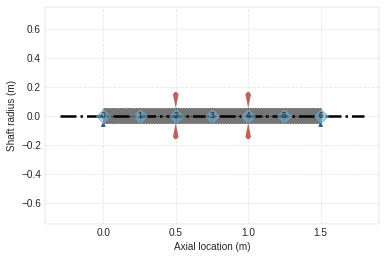
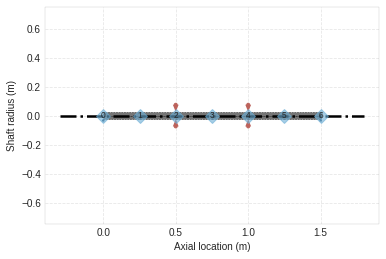
Update tutorial files
This changes the tutorial headers. Before the rst headers were being used
inside the notebook, but the final file would create several links for each
header in the documentation main page. The headers were changed to the markdown
standard (#, ##, ###) to avoid this problem.

Changed region(s): [[0.2487, 0.3398, 0.8394, 0.556]]

diff --git a/docs/examples/Tutorial.rst b/docs/examples/Tutorial.rst
@@ -11,7 +11,7 @@ ROSS Quick Start
   classes for a quick start to use ROSS.
 
 Materials
-=========
+---------
 
 There is a class called Material to hold material’s properties.
 
@@ -46,7 +46,7 @@ There is a class called Material to hold material’s properties.
   of the following parameters: ‘E’, ‘G_s’ ,‘rho’.
 
 Saving a Material
------------------
+~~~~~~~~~~~~~~~~~
 
 To save an already instantiated Material object, you need to use the
 following method.
@@ -56,7 +56,7 @@ following method.
     Steel.save_material()
 
 Loading a Material
-------------------
+~~~~~~~~~~~~~~~~~~
 
 To load a material, first of all, use the available_materials() method
 to check if your material is instantiated, then you should use the
@@ -72,7 +72,7 @@ parameter.
 
 .. parsed-literal::
 
-    ['Steel']
+    ['AISI4140', 'Steel']
 
 
 
@@ -81,7 +81,7 @@ parameter.
     steel = rs.Material.use_material('Steel')
 
 Element
-=======
+-------
 
 | Element is an abstract class(not directly used in the program), this
   class is mainly used to organize the code and make it more intuitive.
@@ -90,7 +90,7 @@ Element
   the junction of two elements.
 
 ShaftElement
-============
+------------
 
 | There are two methods that you could use to model this element:
 | \* Euler–Bernoulli beam Theory \* Timoshenko beam Theory (used as
@@ -121,7 +121,7 @@ ShaftElement
                                       ) for l in l_list]
 
 DiskElement
-===========
+-----------
 
 | As the name says this class represents a Disk.
 | We can see an example of instantiation of this class in the following
@@ -141,11 +141,11 @@ All the values are following the S.I. convention.
 
 .. parsed-literal::
 
-    <ross.disk_element.DiskElement object at 0x7f1402f98e48>
+    DiskElement(Id=0.17809, Ip=0.32956, m=32.59, color='#bc625b', n=0)
 
 
 From geometry DiskElement instatiation
-======================================
+~~~~~~~~~~~~~~~~~~~~~~~~~~~~~~~~~~~~~~
 
 | Besides the instatiation previously explained, there is a way to
   instantiate a DiskElement with only geometrical parameters (for
@@ -173,8 +173,8 @@ From geometry DiskElement instatiation
                                       )
     disks = [disk0,disk1]
 
-# BearingElement
-----------------
+BearingElement
+--------------
 
 | As it says on the name, this class is a bearing.
 | The following code demonstrate how to properly instantiate it. - ‘n’
@@ -201,7 +201,7 @@ give cross-coupled coefficients.
     bearings = [bearing0, bearing1]
 
 Instantiating bearings from excel archives
-------------------------------------------
+~~~~~~~~~~~~~~~~~~~~~~~~~~~~~~~~~~~~~~~~~~
 
 There’s a class method to instantiate a bearing from excel tables, as we
 can see in the following code.
@@ -209,8 +209,8 @@ can see in the following code.
 **There will be a class method to instantiate a bearing from excel
 tables. - work in progress**
 
-# Rotor
--------
+Rotor
+-----
 
 This class unifies all the Element classes in the program and assembles
 the mass, damping and stiffness matrices of each element, building up
@@ -235,7 +235,7 @@ elements in a list format, as it follows.
 
 
 From section instantiation of a Rotor
--------------------------------------
+~~~~~~~~~~~~~~~~~~~~~~~~~~~~~~~~~~~~~
 
 | In this form of instantiation, the number of shaft elements used in
   FEM are not fixed, instead, the program does a convergence analysis,
@@ -287,33 +287,10 @@ From section instantiation of a Rotor
 
     To check the rotor geometry, use the method plot_rotor()
     To calculate the rotor state, use the method run()
-    To check the rotor geometry, use the method plot_rotor()
-    To calculate the rotor state, use the method run()
-
-
-
-.. raw:: html
-
-    
-    
-    
-    
-    
-    
-      <div class="bk-root" id="e93417d1-c9de-46e8-bb2e-a7a77d855c64" data-root-id="1117"></div>
-
-
-
-
-
-.. parsed-literal::
-
-    To check the rotor geometry, use the method plot_rotor()
-    To calculate the rotor state, use the method run()
 
 
 Visualizing the Rotor
----------------------
+~~~~~~~~~~~~~~~~~~~~~
 
 It is interesting to plot the rotor to check if it’s really what you
 wanted to instantiate, you can plot it with the following code.
@@ -335,7 +312,7 @@ you can either turn on or off the matplotlib one.
     
     
     
-      <div class="bk-root" id="3a951c87-f7d3-4ccf-97a2-83a8428e52b8" data-root-id="1320"></div>
+      <div class="bk-root" id="b83f1bbc-3fc3-470b-95a4-47765a656831" data-root-id="1003"></div>
 
 
 
@@ -345,8 +322,8 @@ you can either turn on or off the matplotlib one.
 
 .. parsed-literal::
 
-    (Figure(id='1320', ...),
-     <matplotlib.axes._subplots.AxesSubplot at 0x7f1402facb38>)
+    (Figure(id='1003', ...),
+     <matplotlib.axes._subplots.AxesSubplot at 0x7f9c1c792358>)
 
 
 
@@ -355,7 +332,7 @@ you can either turn on or off the matplotlib one.
 
 
 Running the simulation
-----------------------
+~~~~~~~~~~~~~~~~~~~~~~
 
 After you verify that everything is fine with the rotor, you should run
 the simulation and obtain results. To do that you only need to use the
@@ -373,8 +350,8 @@ These are the following analysis you can do with the program: - Static
 analysis - Campbell Diagram - Frequency response - Forced response -
 Mode Shapes
 
-## Static analysis
-------------------
+Static analysis
+~~~~~~~~~~~~~~~
 
 This method gives a free body diagram and a exagerated plot of the rotor
 response to gravity effects.
@@ -394,14 +371,14 @@ response to gravity effects.
     
     
     
-      <div class="bk-root" id="700428f7-42dc-47d8-b608-d1f69767a94c" data-root-id="2835"></div>
+      <div class="bk-root" id="561b1624-8381-47ca-a90f-a0194ded9af6" data-root-id="2618"></div>
 
 
 
 
 
 Campbell Diagram
-================
+~~~~~~~~~~~~~~~~
 
 In this example we can see the campbell diagram from 0 to 4000 RPM.
 
@@ -412,20 +389,35 @@ In this example we can see the campbell diagram from 0 to 4000 RPM.
 
 
 
+.. raw:: html
+
+    
+    
+    
+    
+    
+    
+      <div class="bk-root" id="9ae7e39e-cc6a-4004-9d1a-66d85ac8fdde" data-root-id="3448"></div>
+
+
+
+
+
+
 
 .. parsed-literal::
 
     (<Figure size 432x288 with 2 Axes>,
-     <matplotlib.axes._subplots.AxesSubplot at 0x7f1401929d30>)
+     <matplotlib.axes._subplots.AxesSubplot at 0x7f9bf0040cf8>)
 
 
 
 
-.. image:: Tutorial_files/Tutorial_29_1.png
+.. image:: Tutorial_files/Tutorial_29_3.png
 
 
 Frenquency Response
-===================
+~~~~~~~~~~~~~~~~~~~
 
 We can put the frequency response of
 
@@ -436,5 +428,20 @@ We can put the frequency response of
 
 
 
-.. image:: Tutorial_files/Tutorial_31_0.png
+.. raw:: html
+
+    
+    
+    
+    
+    
+    
+      <div class="bk-root" id="73d57aef-b024-4a27-b41a-f7f228ad5016" data-root-id="5116"></div>
+
+
+
+
+
+
+.. image:: Tutorial_files/Tutorial_31_2.png
 
